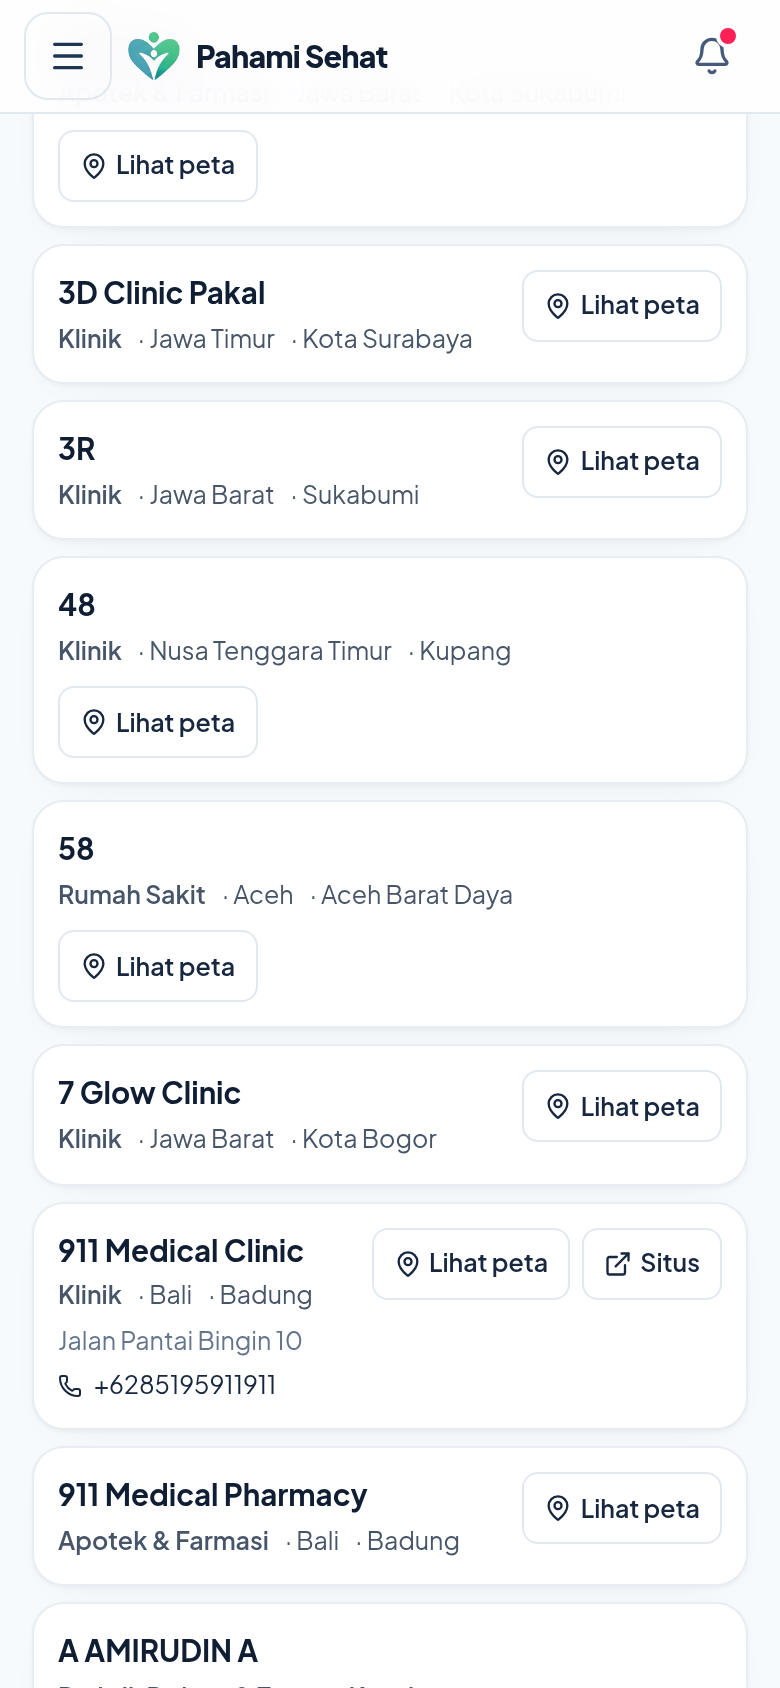
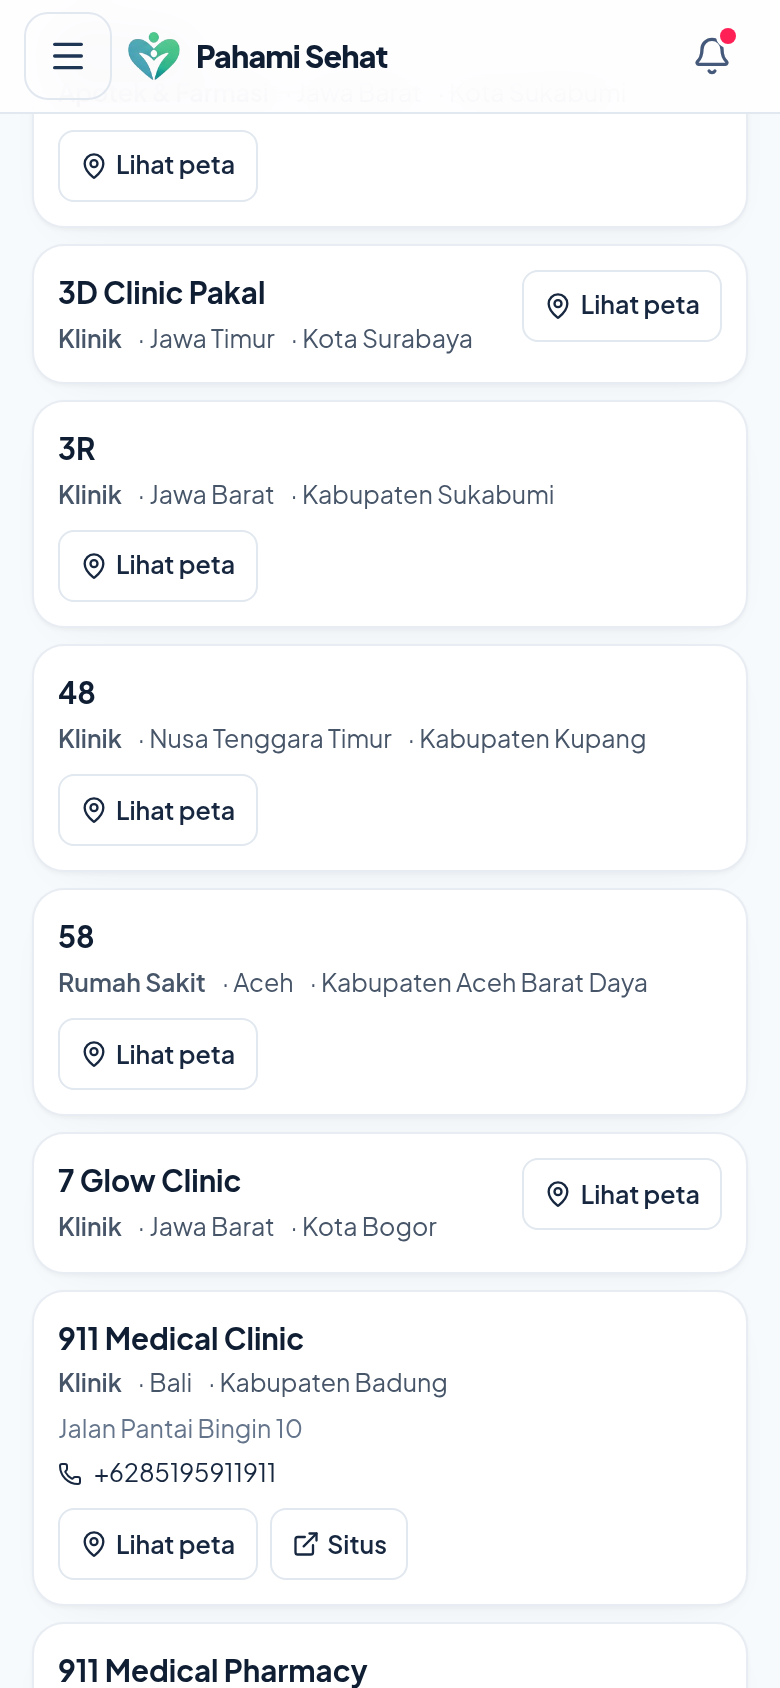
Perbaiki faskes yang tidak bisa ditemukan lewat saringan lokasi
Keluhan: banyak fasilitas lokasinya belum jelas dan tidak muncul saat
dicari lewat filter lokasi. Dua cacat data ditemukan, keduanya tanpa galat:

1. 61 baris punya kabupaten tetapi provinsi kosong. Pilihan provinsi tidak
   memuatnya, dan dropdown kabupaten hanya berisi kabupaten milik provinsi
   yang dipilih, jadi fasilitas itu mustahil dipilih lewat saringan lokasi.
   Penyebabnya petakan-kabupaten-faskes.mjs hanya mengisi kabupaten.
   Sekarang provinsi diturunkan dari kabupaten lewat tabel wilayah
   (lengkapi-provinsi-faskes.mjs), dan skrip pemetaan ikut mengisi provinsi.

2. Satu kabupaten punya beberapa ejaan (Karang Asem/Karangasem, Gunung
   Kidul/Gunungkidul, Fakfak/Fak Fak, Toba Samosir/Danau Toba/Toba), jadi
   dropdown memuat 533 entri untuk 514 kabupaten resmi dan memilih salah
   satunya melewatkan baris bercatatan lain. rapikan-kabupaten-faskes.mjs
   menyeragamkan 12.761 baris ke nama resmi (cocok persis, tanpa spasi,
   lalu alias beralasan), dan 5 pasangan yang kabupatennya milik provinsi
   lain dipindahkan ke provinsi yang benar.

Sisa 20 baris tetap tanpa kabupaten karena titiknya tidak jatuh di poligon
wilayah (pulau kecil/pesisir); tidak dikarang, tetap muncul lewat provinsi.

Penjaga baru di uji-faskes-nasional.mjs (37 -> 41): setiap opsi kabupaten
punya provinsi yang ada di daftar, jumlah kabupaten + baris tanpa kabupaten
= total, dan setiap nilai kabupaten cocok dengan nama resmi wilayah.
[…]

diff --git a/docs/prototipe/index.html b/docs/prototipe/index.html
@@ -576,7 +576,7 @@
           <li><strong>Pencarian bertahap:</strong> memilih provinsi mengaktifkan dropdown kabupaten/kota yang hanya berisi wilayah provinsi itu; tombol <em>Atur ulang</em> mengembalikan seluruh saringan sekaligus.</li>
           <li><strong>Duplikat dibersihkan dengan aturan yang bisa diperiksa:</strong> dua sumber disatukan hanya bila nama, provinsi, dan kabupaten/kotanya sama (terukur 128 rumah sakit) — baris OSM dihapus, koordinatnya dipindahkan ke baris SIRS resmi, dan <code>kode_osm</code> disimpan sebagai rujukan. Objek OSM yang terpetakan dua kali (<em>way</em> dan <em>node</em>, nama sama, ≤50 m) juga dibersihkan. Total 553 baris dibersihkan 12 Nov 2026, dari 21.477 menjadi 20.924. Nama generik seperti “posyandu” hanya digabung bila praktis satu titik, supaya dua fasilitas berbeda tidak ikut terhapus.</li>
           <li><strong>Koordinat tidak dikarang:</strong> 3.197 dari 3.325 rumah sakit SIRS belum menyediakan koordinat; 128 sisanya memakai koordinat objek OpenStreetMap yang sama, dengan <code>kode_osm</code> sebagai rujukan. Baris seperti itu tetap tampil dengan penanda <em>“Lokasi di peta belum tersedia”</em>, dan tombol peta hanya muncul untuk baris yang benar-benar berkoordinat.</li>
-          <li><strong>Data wilayahnya resmi:</strong> provinsi dan kabupaten/kota mengikuti dataset administratif BPS/Kemendagri (38 provinsi).</li>
+          <li><strong>Data wilayahnya resmi:</strong> provinsi dan kabupaten/kota mengikuti dataset administratif BPS/Kemendagri — 38 provinsi dan 514 kabupaten/kota, satu ejaan per wilayah, sehingga memilih satu kabupaten tidak melewatkan fasilitas yang tercatat dengan ejaan lain.</li>
         </ul>
 
         <img class="shot" src="assets/tangkapan-layar/faskes-0-daftar-nasional.png" alt="Daftar nasional tanpa saringan: 20.924 baris fasilitas dari dua sumber, dengan panel saringan jenis, provinsi, kabupaten, sumber, dan kelas rumah sakit" width="1440" height="900" loading="lazy" decoding="async">

diff --git a/README.md b/README.md
@@ -122,6 +122,19 @@ belum punya koordinat** — baris seperti itu tetap ditampilkan dengan penanda
 memakai koordinat objek OSM yang sama; `kode_osm` pada baris itu menyimpan
 rujukan asalnya.
 
+Saringan lokasi juga dirapikan 12 Nov 2026. Ditemukan **61 baris yang punya
+kabupaten tetapi provinsi kosong** — pilihan provinsi tidak memuatnya, dan
+dropdown kabupaten hanya berisi kabupaten milik provinsi yang dipilih, jadi
+fasilitas itu mustahil ditemukan lewat saringan lokasi (namanya tetap bisa
+dicari). Provinsinya diturunkan dari kabupaten lewat tabel `wilayah`
+(`lengkapi-provinsi-faskes.mjs`), bukan ditebak. Selain itu ejaan kabupaten
+diseragamkan ke nama resmi (`rapikan-kabupaten-faskes.mjs`): 533 entri dropdown
+menyusut jadi **514 kabupaten/kota resmi**, sehingga memilih "Karangasem" tidak
+lagi melewatkan baris yang tercatat "Karang Asem". Sisa **20 baris** tetap tanpa
+kabupaten karena titiknya tidak jatuh di poligon wilayah mana pun (pulau kecil
+dan pesisir); baris itu tetap muncul lewat saringan provinsi, dan kabupatennya
+tidak dikarang.
+
 Dua sumber disatukan hanya bila **nama, provinsi, dan kabupaten/kotanya sama**
 (terukur 128 rumah sakit). Baris OSM-nya dihapus, koordinatnya dipindahkan ke
 baris SIRS resmi, dan `kode_osm` dicatat sebagai rujukan — bukan koordinat
@@ -170,6 +183,8 @@ Tangkapan di atas diambil dari aplikasi yang benar-benar berjalan lewat
 | [`docs/skema-database.sql`](docs/skema-database.sql) | **Skema MariaDB** — 12 tabel (`sumber`, `dokumen`, `sitasi`, `konten`, `berita`, `pengetahuan`, `percakapan`, `wilayah`, `kategori_fasilitas`, `fasilitas`, `statistik_faskes`, `sumber_data_faskes`). Idempoten (semua `CREATE TABLE IF NOT EXISTS`), aman dijalankan ulang; sekaligus membersihkan tabel akun versi lama. |
 | [`impor-sirs.mjs`](impor-sirs.mjs) | **Pengimpor rumah sakit resmi Kemenkes**: SIRS JSON → MySQL, upsert batch, validasi terhadap rekap resmi, log sinkronisasi. Lihat [Rumah sakit resmi Kemenkes](#rumah-sakit-resmi-kemenkes-sirs-3325-rs-di-database). |
 | [`isi-wilayah.mjs`](isi-wilayah.mjs) | Pengisi tabel `wilayah` dari `wilayah.id` (38 provinsi + 514 kabupaten/kota + **7.285 kecamatan**). |
+| [`lengkapi-provinsi-faskes.mjs`](lengkapi-provinsi-faskes.mjs) | **Pengisi `provinsi` dari `kabupaten`** lewat tabel `wilayah` (dry run bawaan). Dipakai 12 Nov 2026 untuk 61 baris yang punya kabupaten tetapi provinsi kosong — baris seperti itu tidak bisa ditemukan lewat saringan lokasi sama sekali. |
+| [`rapikan-kabupaten-faskes.mjs`](rapikan-kabupaten-faskes.mjs) | **Penyeragam ejaan `kabupaten`** ke nama resmi `wilayah` (dry run bawaan). 12 Nov 2026: 12.761 baris dirapikan, 533 entri dropdown menyusut jadi 514 kabupaten resmi, dan 5 pasangan yang kabupatennya milik provinsi lain dipindahkan ke provinsi yang benar. |
 | [`petakan-wilayah.mjs`](petakan-wilayah.mjs) | Memetakan nama wilayah SIRS ke kode wilayah resmi; 513/513 berhasil, 6 alias eksplisit. |
 | [`impor-statistik-faskes.mjs`](impor-statistik-faskes.mjs) | **Pengisi statistik fasilitas nasional** — 6 kategori Kemenkes 2024 + pembanding BPJS, beserta 4 rujukan pengembangan. `--cari`/`--kering`, aman diulang. Lihat [Statistik fasilitas nasional](#statistik-fasilitas-nasional--angka-resmi-dan-artinya). |
 | [`bersihkan-duplikat-faskes.mjs`](bersihkan-duplikat-faskes.mjs) | **Pembersih duplikat faskes** — dry run secara bawaan, `--terapkan` untuk menghapus. Aturannya di `app/server/dedupFaskes.js` (fungsi murni, diuji `uji-dedup-faskes.mjs`): duplikat dalam satu sumber (nama sama, ≤50 m; nama generik ≤5 m) dan lintas sumber (nama + provinsi + kabupaten sama → koordinat OSM dipindahkan ke baris SIRS, `kode_osm` disimpan sebagai rujukan). 12 Nov 2026: 553 baris dibersihkan, 21.477 → 20.924. |
